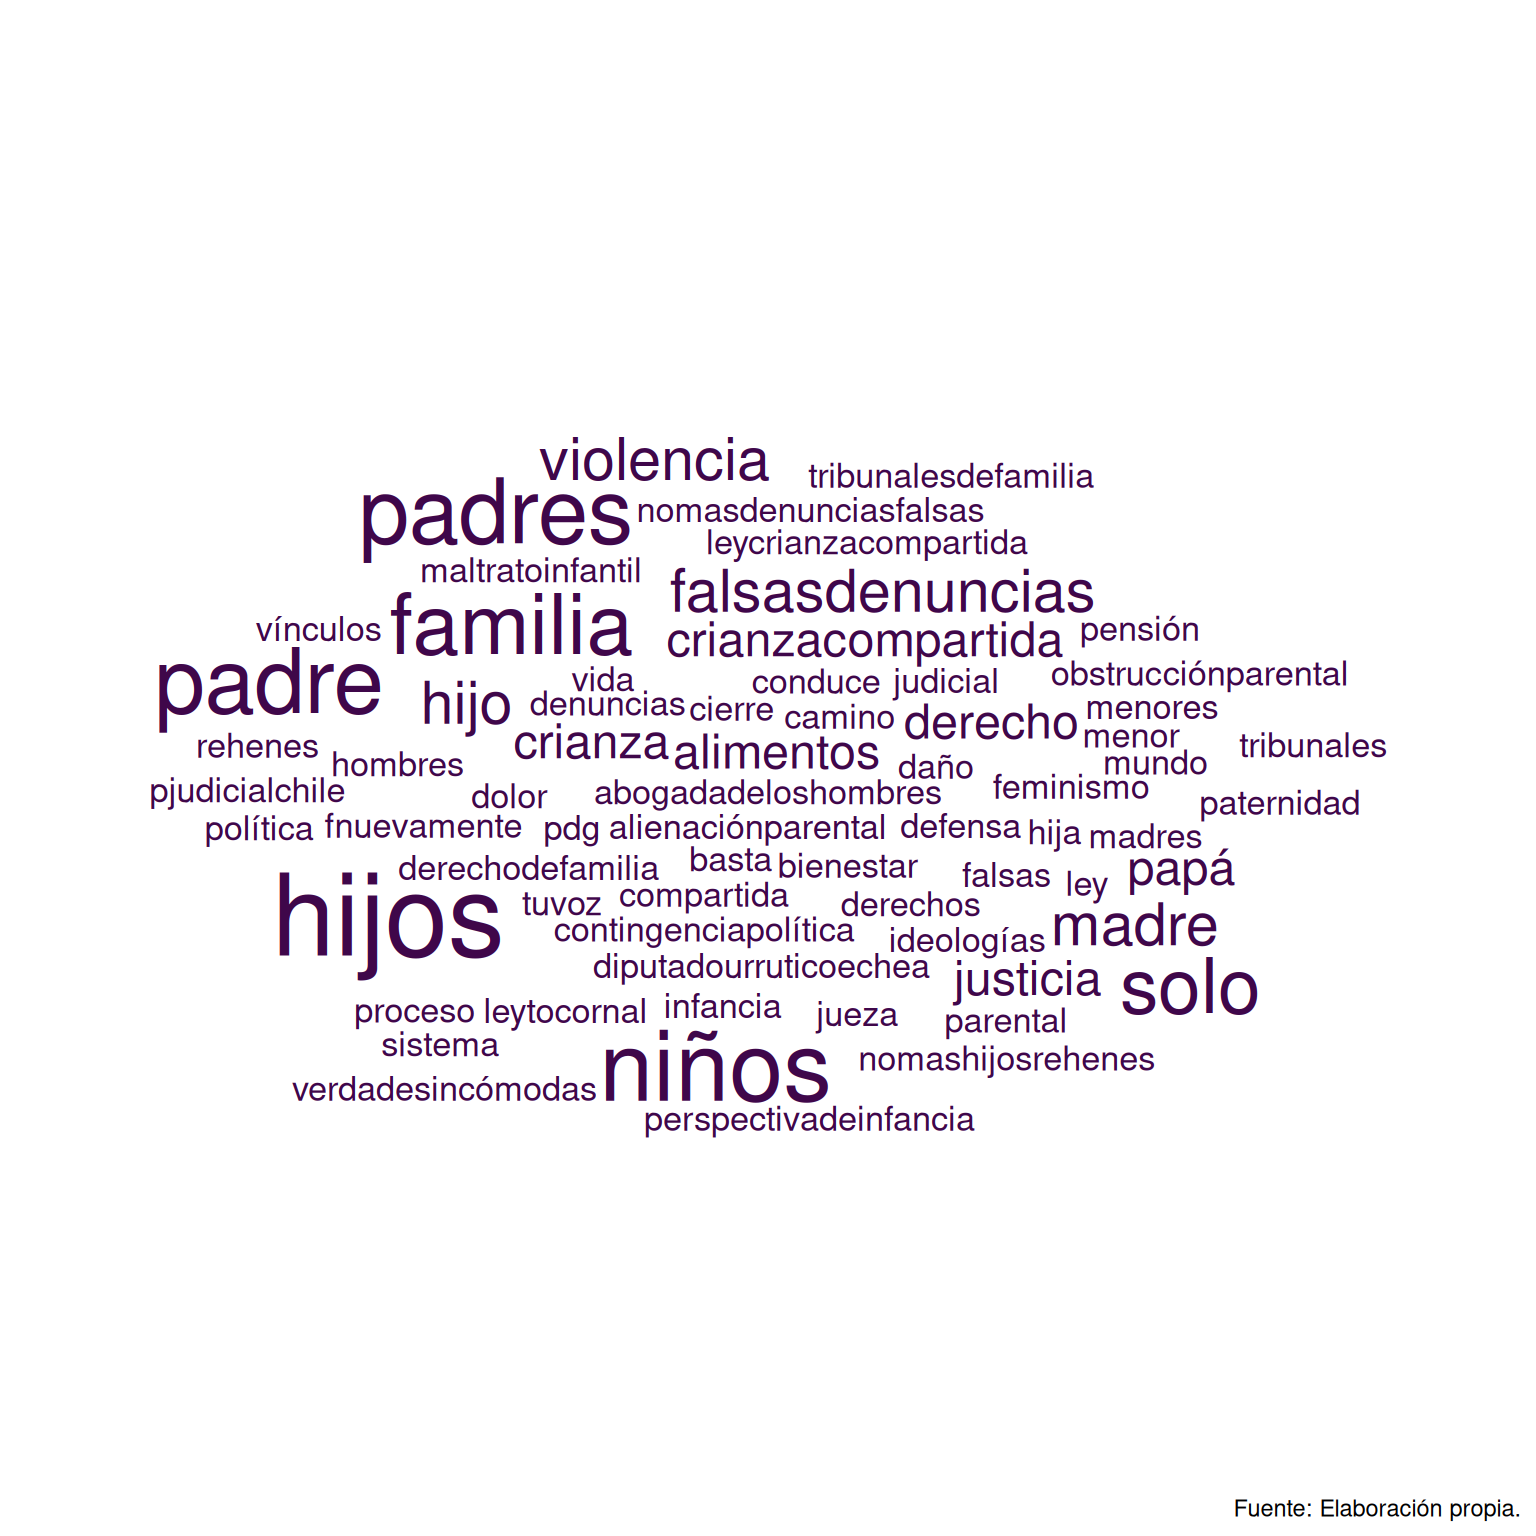
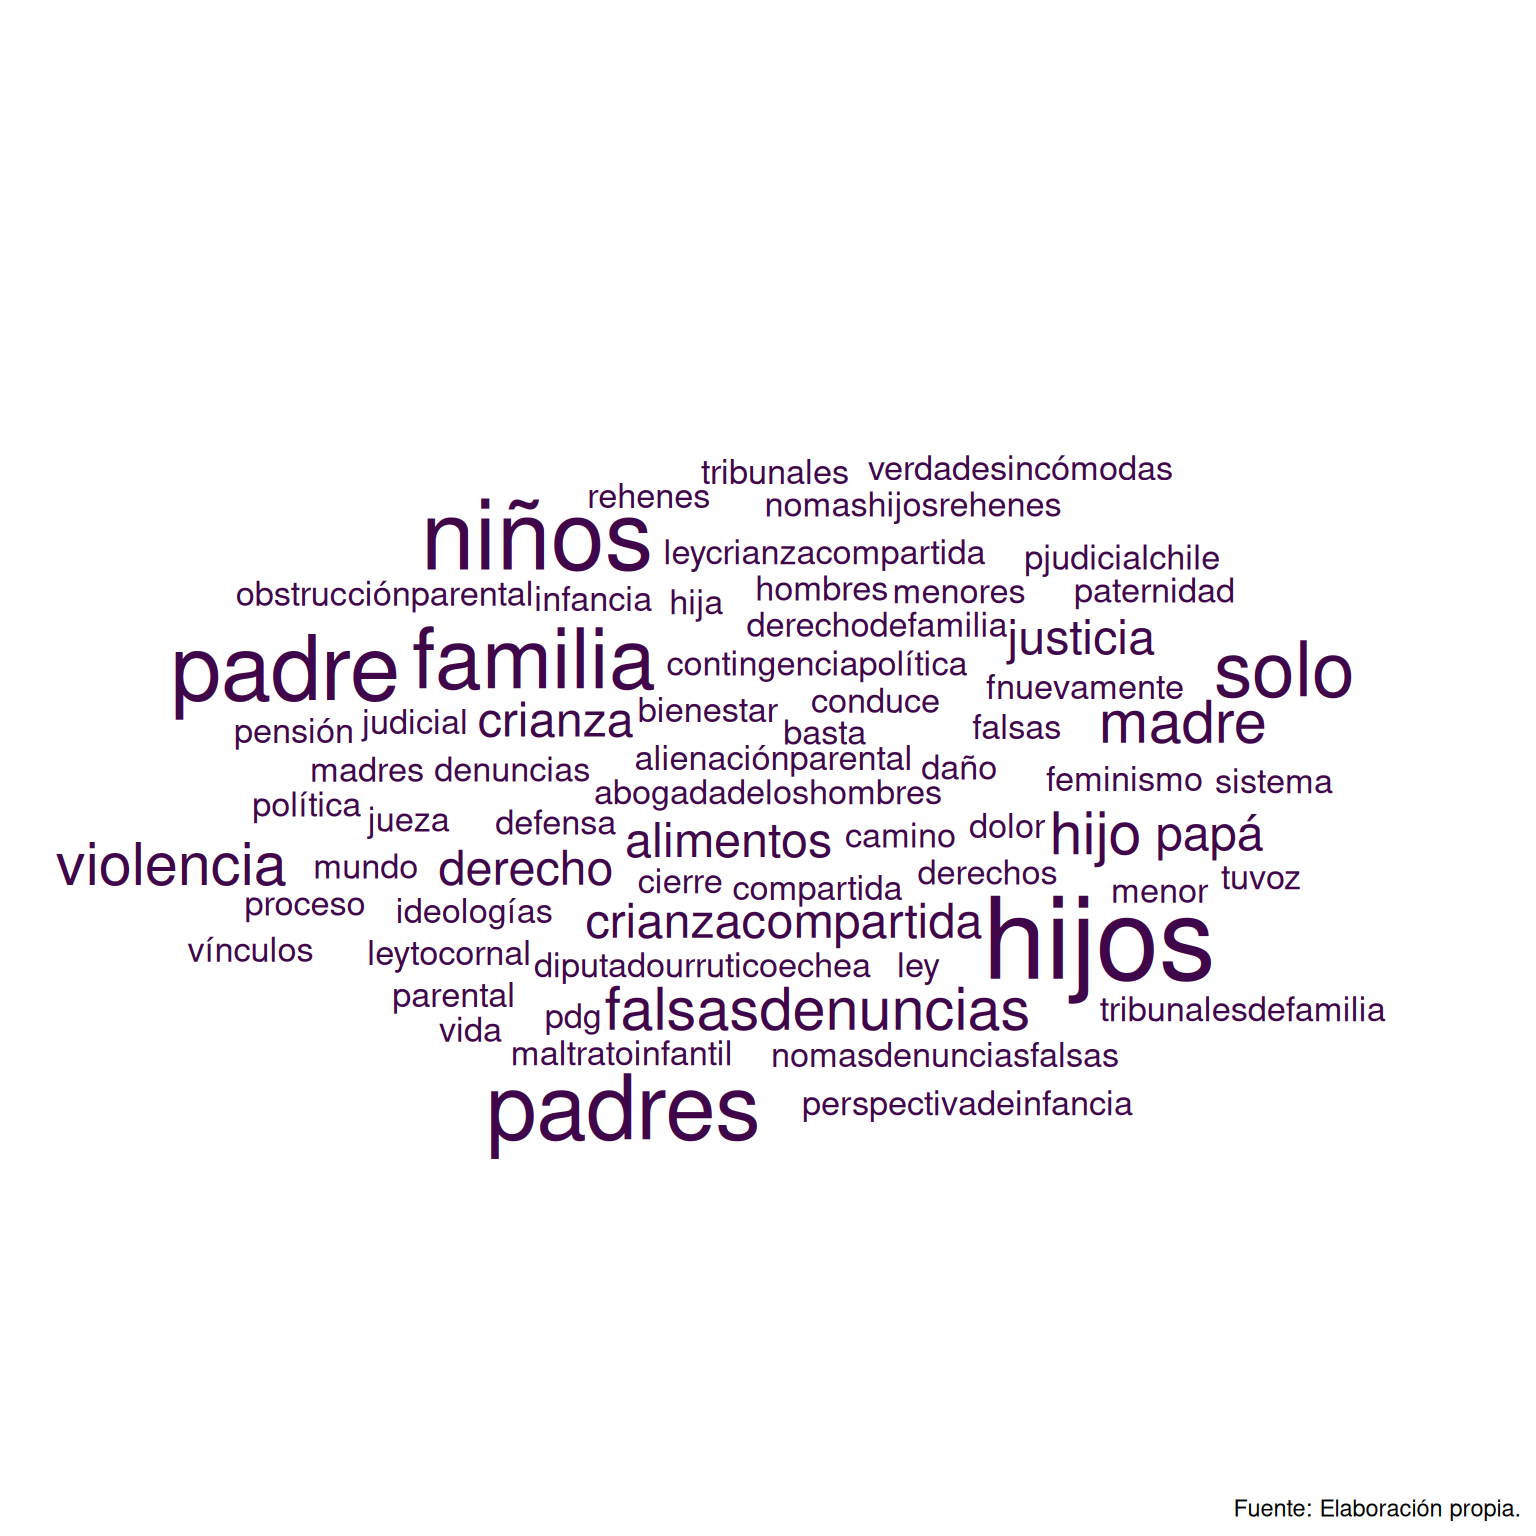
descriptivos emociones

Changed region(s): [[0.0312, 0.2812, 0.9062, 0.75]]

diff --git a/descriptivos-cuentas-grupo-3.html b/descriptivos-cuentas-grupo-3.html
@@ -111,7 +111,10 @@ ul.task-list li input[type="checkbox"] {
   <li><a href="#exclusión-de-palabras" id="toc-exclusión-de-palabras" class="nav-link" data-scroll-target="#exclusión-de-palabras">Exclusión de palabras</a></li>
   <li><a href="#nube-de-palabras-top-10-de-cada-cuenta" id="toc-nube-de-palabras-top-10-de-cada-cuenta" class="nav-link" data-scroll-target="#nube-de-palabras-top-10-de-cada-cuenta">Nube de palabras (top 10 de cada cuenta)</a></li>
   <li><a href="#nube-de-palablas-general" id="toc-nube-de-palablas-general" class="nav-link" data-scroll-target="#nube-de-palablas-general">Nube de palablas general</a></li>
-  <li><a href="#análisis-de-emociones" id="toc-análisis-de-emociones" class="nav-link" data-scroll-target="#análisis-de-emociones">Análisis de Emociones</a></li>
+  <li><a href="#análisis-de-emociones" id="toc-análisis-de-emociones" class="nav-link" data-scroll-target="#análisis-de-emociones">Análisis de Emociones</a>
+  <ul>
+  <li><a href="#palabras-más-frecuentes-y-sus-emociones-predominantes" id="toc-palabras-más-frecuentes-y-sus-emociones-predominantes" class="nav-link" data-scroll-target="#palabras-más-frecuentes-y-sus-emociones-predominantes">Palabras más frecuentes y sus emociones predominantes</a></li>
+  </ul></li>
   </ul></li>
   </ul>
 </nav>
@@ -1170,6 +1173,27 @@ ul.task-list li input[type="checkbox"] {
 </div>
 </div>
 </div>
+<section id="palabras-más-frecuentes-y-sus-emociones-predominantes" class="level3">
+<h3 class="anchored" data-anchor-id="palabras-más-frecuentes-y-sus-emociones-predominantes">Palabras más frecuentes y sus emociones predominantes</h3>
+<div class="cell">
+<div class="cell-output-display">
+<div>
+<figure class="figure">
+<p><img src="descriptivos-cuentas-grupo-3_files/figure-html/unnamed-chunk-24-1.png" class="img-fluid figure-img" width="960"></p>
+</figure>
+</div>
+</div>
+</div>
+<div class="cell">
+<div class="cell-output-display">
+<div>
+<figure class="figure">
+<p><img src="descriptivos-cuentas-grupo-3_files/figure-html/unnamed-chunk-25-1.png" class="img-fluid figure-img" width="864"></p>
+</figure>
+</div>
+</div>
+</div>
+</section>
 </section>
 </section>
 
